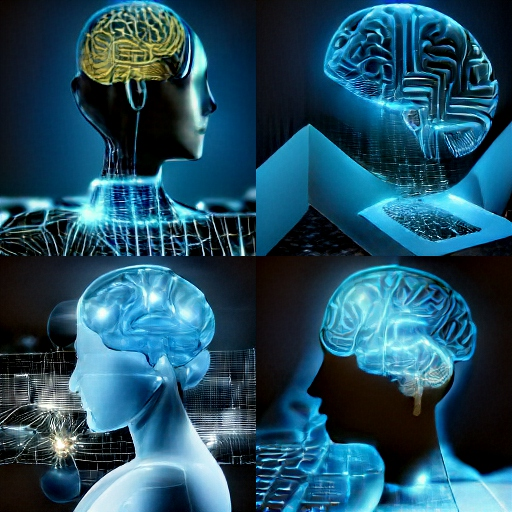
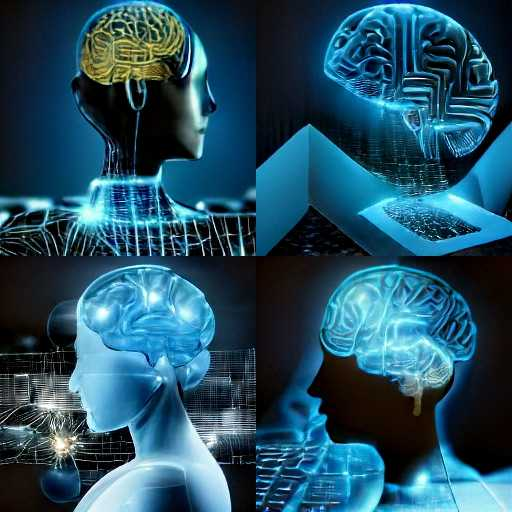
Change picture with gimp and add new picture to now page.

diff --git a/1.8/now.html b/1.8/now.html
@@ -40,7 +40,13 @@
         wisely and earnestly."~Buddah
       </blockquote>
       <aside>
-        Aside from that I enjoy streaming on twitch.tv for fun. Check out my schedule below!
+        <picture>
+          <source media="(min-width: 100px)" srcset="DALLE_streamer.png">
+          <img src="DALLE_streamer.png" alt="The Age of Artificial Intelligence" width="30%" height="30%">
+          <figcaption>
+            Aside from that I enjoy streaming on twitch.tv for fun. Check out my schedule below!
+          </figcaption>
+        </picture>
       </aside>
       <details>
         <summary>
